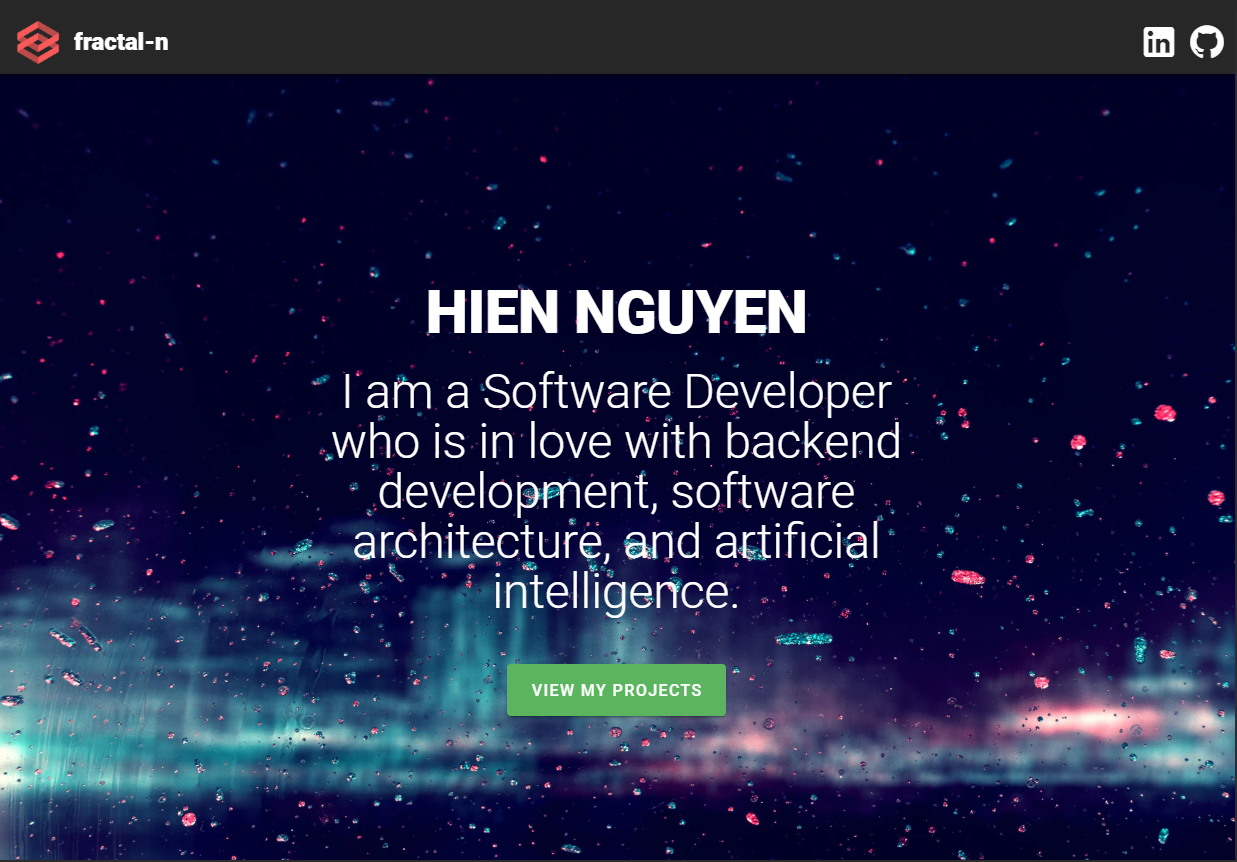
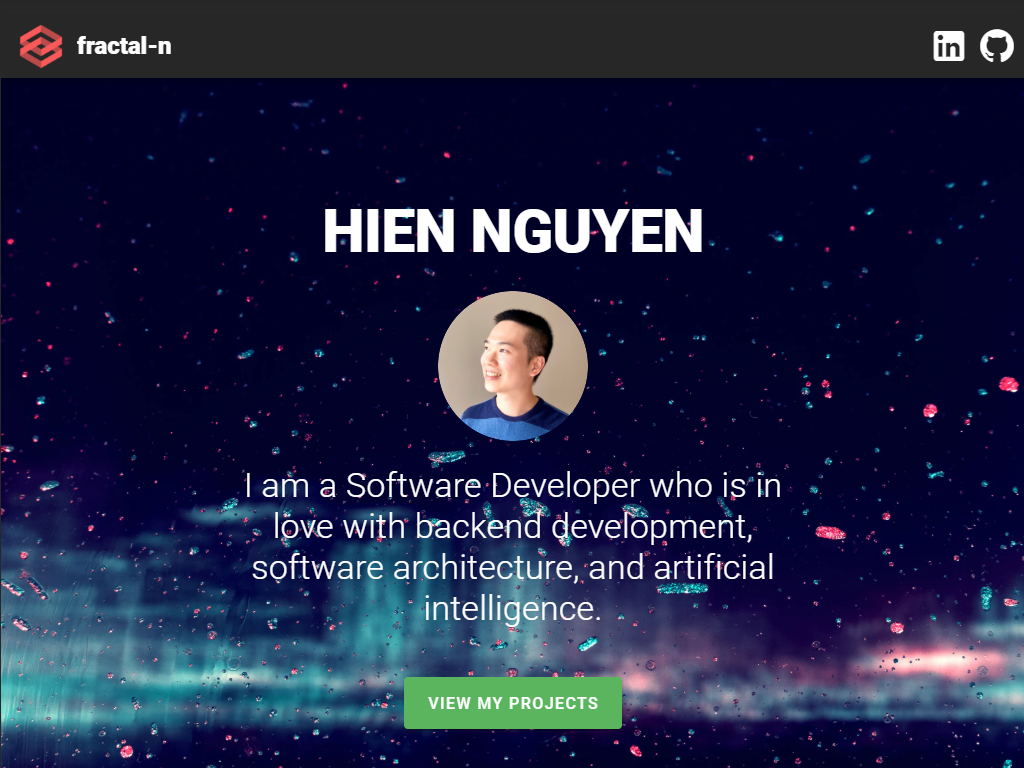
update Vuetify and screenshots

diff --git a/src/components/Projects.vue b/src/components/Projects.vue
@@ -3,7 +3,12 @@
     <div class="py-12"></div>
 
     <v-container>
-      <h2 id="projects" class="display-2 font-weight-bold mb-3 text-uppercase text-center">Projects</h2>
+      <h2
+        id="projects"
+        class="text-h2 font-weight-bold mb-3 text-uppercase text-center"
+      >
+        Projects
+      </h2>
 
       <v-responsive class="mx-auto mb-12" width="56">
         <v-divider class="mb-1"></v-divider>
@@ -22,7 +27,15 @@
 
       <v-row align="center" justify="center">
         <v-col
-          v-for="({ name, repoUrl, appUrl, description, screenshot, tags, favorite},
+          v-for="({
+            name,
+            repoUrl,
+            appUrl,
+            description,
+            screenshot,
+            tags,
+            favorite,
+          },
           i) in projects"
           :key="i"
           cols="12"
@@ -42,15 +55,23 @@
 
             <v-card-text>
               <v-container fluid>
-                <v-row>{{description}}</v-row>
+                <v-row>{{ description }}</v-row>
                 <v-row class="mt-4">
-                  <v-chip color="info" class="mr-3" v-for="(name, i) in tags" :key="i">{{name}}</v-chip>
+                  <v-chip
+                    color="info"
+                    class="mr-3"
+                    v-for="(name, i) in tags"
+                    :key="i"
+                    >{{ name }}</v-chip
+                  >
                 </v-row>
               </v-container>
             </v-card-text>
 
             <v-card-actions>
-              <v-btn :href="appUrl" target="_blank" color="success">See Demo</v-btn>
+              <v-btn :href="appUrl" target="_blank" color="success"
+                >See Demo</v-btn
+              >
               <v-spacer></v-spacer>
               <v-btn icon :href="repoUrl" target="_blank">
                 <v-icon large>mdi-github</v-icon>
@@ -70,7 +91,7 @@ import data from "../store/projects.json";
 
 export default {
   data: () => ({
-    projects: data.projects
+    projects: data.projects,
   }),
   computed: {
     // I was thinking about allowing user to filter tags using tag group, but it seems to take more time to do this than I initially thought
@@ -84,7 +105,7 @@ export default {
   methods: {
     getImage(fileName) {
       return require(`../assets/${fileName}`);
-    }
-  }
+    },
+  },
 };
 </script>

diff --git a/src/components/Intro.vue b/src/components/Intro.vue
@@ -7,12 +7,10 @@
       <v-container fill-height>
         <v-row justify="center">
           <v-col class="text-center" lg="6" md="8" sm="10">
-            <div
-              :class="[$vuetify.breakpoint.smAndDown ? 'display-2': 'display-3']"
-              class="font-weight-black"
-            >HIEN NGUYEN</div>
+            <div class="text-h2 font-weight-black">
+              HIEN NGUYEN
+            </div>
 
-            <br />
             <br />
 
             <v-avatar size="150">
@@ -22,15 +20,21 @@
             <br />
             <br />
 
-            <div
-              :class="[$vuetify.breakpoint.smAndDown ? 'display-1' : 'display-2']"
-              class="font-weight-light"
-            >I am a Software Developer who is in love with backend development, software architecture, and artificial intelligence.</div>
+            <div class="text-h4 font-weight-light">
+              I am a Software Developer who is in love with backend development,
+              software architecture, and artificial intelligence.
+            </div>
 
             <br />
             <br />
 
-            <v-btn x-large color="success" @click="$vuetify.goTo('#projects')">View my projects</v-btn>
+            <v-btn
+              x-large
+              raised
+              color="success"
+              @click="$vuetify.goTo('#projects')"
+              >View my projects</v-btn
+            >
           </v-col>
         </v-row>
       </v-container>

diff --git a/README.md b/README.md
@@ -4,10 +4,14 @@
 
 This project is a central showcase for my personal projects. [The portfolio link is here](https://fractal-n.github.io/portfolio/).
 
+## Screenshot
+
+Use 1024px x 768px (4:3 ratio) size. Use Screen Snip with iPad view at portrait. Then crop with Paint 3D.
+
 ## Tech stack
 
-Vue CLI
-Vuetify
+VueJS
+VuetifyJS
 GitHub Pages
 
 ## Deploy on GitHub Pages
